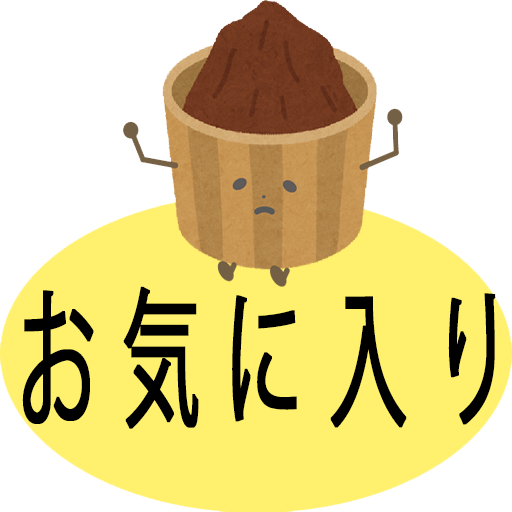
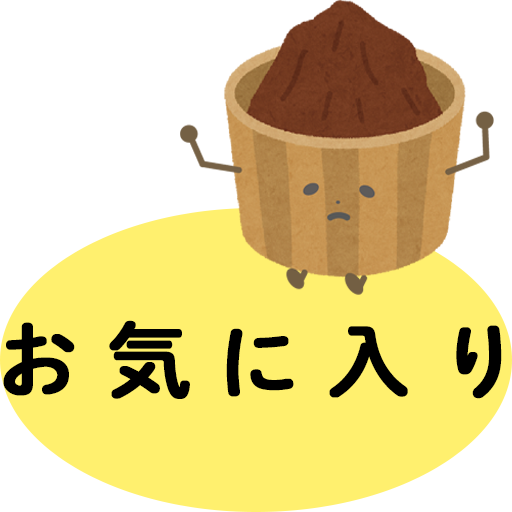
ヘッダーとフッターを仕上げた
ヘッダーとフッターを仕上げた

福島

diff --git a/assets/css/header.css b/assets/css/header.css
@@ -13,12 +13,13 @@
 .kvsub {
     /* display: none; */
     width: 100%;
-    height: 80px;
+    height: 100px;
     /* background-image: url(../../uploads/header-designkanpu.jpg); */
     background-size: cover;
+    background-repeat: no-repeat;
     background-position: center center;
     position: relative;
-    top: 80px;
+    top: 100px;
 }
 
 .kv-copy {
@@ -60,7 +61,7 @@
 }
 
 .logo {
-    width: 100px;
+    /* width: 100px; */
     position: absolute;
     top: 10px;
     left: 10px;
@@ -70,7 +71,7 @@
 }
 
 .logo img {
-    width: 60px;
+    width: 80px;
 }
 
 .nav-pc_logo {
@@ -92,7 +93,7 @@
 }
 
 .nav-sp-logo img {
-    width: 65px;
+    width: 80px;
     /* height: 76px; */
 }
 
@@ -112,7 +113,7 @@ nav.nav-sp {
     position: fixed;
     top: 0;
     right: 0;
-    z-index: 10;
+    z-index: 500;
     width: 100%;
     height: 100vh;
     background: #fff;
@@ -127,7 +128,7 @@ nav.nav-sp {
     display: block;
     width: 40px;
     height: 40px;
-    z-index: 100;
+    z-index: 500;
     margin-right: 10px;
 }
 
@@ -135,7 +136,7 @@ nav.nav-sp {
     position: fixed;
     top: 0px;
     left: 0;
-    z-index: 300;
+    z-index: 500;
     width: 100%;
     background-color: #fff;
 }
@@ -275,6 +276,7 @@ nav.nav-pc {
         height: 120px;
         /* background-image: url(../../uploads/header-designkanpu.jpg); */
         background-size: cover;
+        background-repeat: no-repeat;
         background-position: center center;
         position: relative;
         top: 0px;
@@ -323,10 +325,14 @@ nav.nav-pc {
         max-width: 1024px;
         margin: 0 auto;
         padding: 0 20px;
-        /* background-color: #dbb62e; */
     }
 
-    .header-container img {
+    .header-container li:first-child img {
+        width: 100px;
+        /* gap: 15px; */
+    }
+
+    .header-container li:nth-child(n+2) img {
         width: 80px;
         /* gap: 15px; */
     }
@@ -336,12 +342,12 @@ nav.nav-pc {
     }
 
     .pc-title-logo img {
-        width: 80px;
+        width: 100px;
     }
 
     nav-pc_logo a {
         display: inline-block;
-        /* width: 100px; */
+        width: 100px;
     }
 
     /* .title_logo {

diff --git a/assets/css/footer.css b/assets/css/footer.css
@@ -1,20 +1,28 @@
 @charset "UTF-8";
 
 footer {
+    width: 100%;
+    margin: 0 auto;
     background-color: #93b4df;
-    margin-top: 100px;
+    /* margin-top: 100px auto; */
     text-align: center;
 
 }
 
-.footer_nav {
-    text-align: left;
-    line-height: 200%;
+.footer_container {
+    width: 80%;
+    margin: 0px auto;
+    padding: 20px;
+    display: inline-block;
 }
 
-.footer_container {
-    padding: 20px 0;
-    display: inline-block;
+.footer_nav {
+    text-align: left;
+    /* line-height: 200%; */
+}
+
+.footer_nav li {
+    margin: 20px auto;
 }
 
 .footer_nav a {
@@ -49,7 +57,7 @@ footer {
     width: 8%;
     max-width: 60px;
     min-width: 50px;
-    z-index: 500;
+    z-index: 10;
 }
 
 #page-top img {

diff --git a/assets/css/common.css b/assets/css/common.css
@@ -100,8 +100,14 @@ a img:hover {
 .inner {
     max-width: 1024px;
     min-width: 320px;
-    margin: 0 auto;
-    padding: 0 20px;
+    margin: 0 auto 40px;
+    padding: 50px 20px 0;
+}
+
+@media screen and (min-width:900px) {
+    .inner {
+        padding: 0px 20px 0;
+    }
 }
 
 *,

diff --git a/header.php b/header.php
@@ -19,55 +19,52 @@ $page_description = '徳島を旅するように味わう';
 
 if (is_post_type_archive('product') || is_tax('product_type')) {
     $page_tile = '商品一覧';
-    $img_path .= 'KV_syokuhin.png';
+    $img_path .= 'H_syokuhin.png';
 } else if (is_singular('product')) {
     $page_tile = '商品詳細';
-    $img_path .= 'KV_syokuhin.png';
+    $img_path .= 'H_syokuhin.png';
 } else if (is_tax('area')) {
     $page_tile = 'エリア検索';
-    $img_path .= 'furikake.jpeg';
+    $img_path .= 'H_syokuhin.png';
 } else if (is_search()) {
     $page_tile = '詳細検索';
-    $img_path .= 'furikake.jpeg';
+    $img_path .= 'H_syokuhin.png';
 } else if (is_post_type_archive('column') || is_tax('column_type')) {
     $page_tile = 'コラム一覧';
-    $img_path .= 'furikake.jpeg';
+    $img_path .= 'H_koramu.png';
 } else if (is_singular('column')) {
     $page_tile = 'コラム詳細';
-    $img_path .= 'furikake.jpeg';
+    $img_path .= 'H_koramu.png';
 } else if (is_post_type_archive('maker') || is_tax('maker_type')) {
     $page_tile = 'メーカー一覧';
-    $img_path .= 'furikake.jpeg';
+    $img_path .= 'H_factory.png';
 } else if (is_singular('maker')) {
     $page_tile = 'メーカー詳細';
-    $img_path .= 'furikake.jpeg';
+    $img_path .= 'H_factory.png';
 } else if (is_post_type_archive('recipe') || is_tax('recipe_type')) {
     $page_tile = 'アレンジレシピ一覧';
-    $img_path .= 'furikake.jpeg';
+    $img_path .= 'H_reshipi.png';
 } else if (is_singular('recipe')) {
     $page_tile = 'アレンジレシピ詳細';
-    $img_path .= 'furikake.jpeg';
+    $img_path .= 'H_reshipi.png';
 } else if (is_page('mypage')) {
     $page_tile = 'お気に入り';
-    $img_path .= 'furikake.jpeg';
-} else if (is_page('q&a')) {
-    $page_tile = '商品詳細';
-    $img_path .= 'furikake.jpeg';
+    $img_path .= 'H_okiniiri.png';
 } else if (is_page('about')) {
     $page_tile = 'このサイトについて';
-    $img_path .= 'furikake.jpeg';
+    $img_path .= 'H_syokuhin.png';
 } else if (is_page('qa')) {
     $page_tile = 'Ｑ＆Ａ';
-    $img_path .= 'furikake.jpeg';
+    $img_path .= 'H_syokuhin.png';
 } else if (is_page('privacy')) {
     $page_tile = 'プライバシーポリシー・免責事項';
-    $img_path .= 'furikake.jpeg';
+    $img_path .= 'H_syokuhin.png';
 } else if (is_page('aboutsite')) {
     $page_tile = 'サイト制作にあたって';
-    $img_path .= 'heade_kv1.jpg';
+    $img_path .= 'H_syokuhin.png';
 } elseif (is_page('contact') || is_page('confirm') || is_page('thanks')) {
     $page_tile = 'お問合せ';
-    $img_path .= 'heade_kv1.jpg';
+    $img_path .= 'H_syokuhin.png';
 }
 ?>
 
@@ -135,7 +132,7 @@ if (is_post_type_archive('product') || is_tax('product_type')) {
                     <li>
                         <a href="<?php echo home_url('/'); ?>">
                             <div class="nav-sp-logo">
-                                <img src="<?php echo get_template_directory_uri(); ?>/assets/images/logo2.png" alt="logo.png">
+                                <img src="<?php echo get_template_directory_uri(); ?>/assets/images/logo.png" alt="logo.png">
                             </div>
                         </a>
                     </li>
